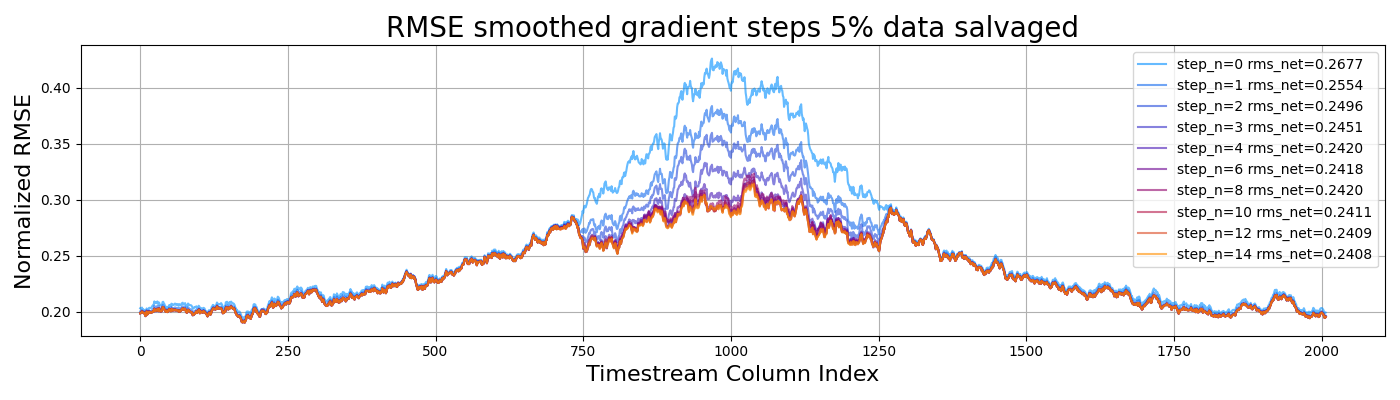
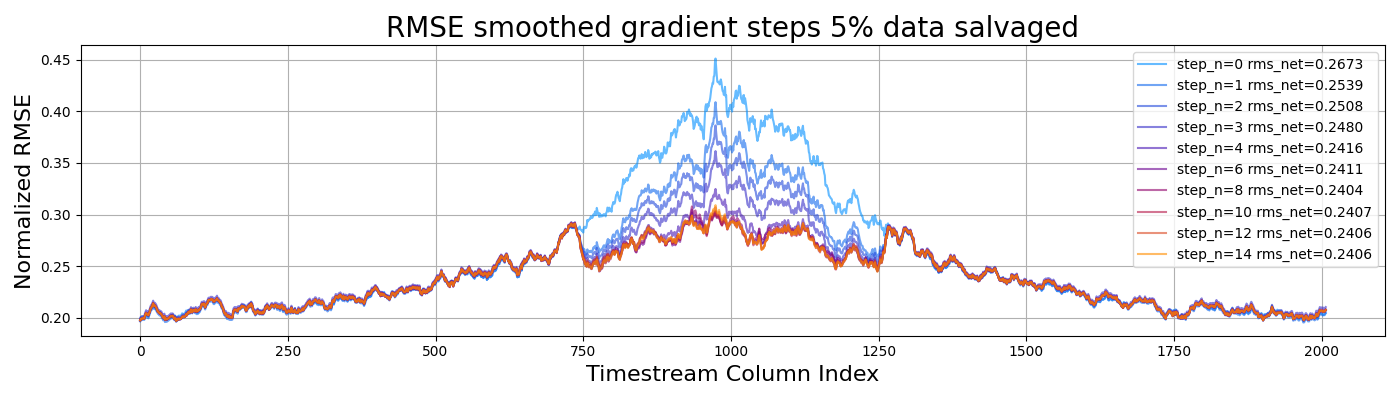
conj grad refactored

diff --git a/plots/rmse_conjugate_gradient_plots.py b/plots/rmse_conjugate_gradient_plots.py
@@ -4,7 +4,7 @@ import sys
 sys.path.append("..")
 import conjugate_gradient as cg
 from matrix_operators import A,A_inv,A_inv_wiener,A_quantize,AT
-from pfb import quantize
+from pfb import quantize_real
 import numpy as np
 from numpy.fft import rfft, irfft
 import matplotlib.pyplot as plt
@@ -18,16 +18,21 @@ import matplotlib.pyplot as plt
 colors=plt.get_cmap('Set2').colors # get list of RGB color values
 
 delta = 0.5     # Quantization interval
-#delta_in = 0.5  # Quantization interval of the input
+delta_in = 0.5  # Quantization interval of the input
 k = 80          # Determines length of simulated signal k*lblock
 lblock = 2048
 
 # Simulated input data is randomly sampled from a normal distribution. 
 x = np.random.normal(0,1,lblock*k) 
+# Quantize x with ADC
+x = quantize_real(x,delta_in)
 # `d` is what the data looks like after it's been through the PFB and it's been quantized. 
 d = A_quantize(x,delta) 
-# `N_inv` and `Q_inv` are *diagonal* matrices, so we store them as 1D-arrays 
-N_inv = np.ones(len(x)) * 6 / delta**2 
+
+# ---depricated---
+## `N_inv` and `Q_inv` are *diagonal* matrices, so we store them as 1D-arrays 
+#N_inv = np.ones(len(x)) * 6 / delta**2 
+# ---depricated---
 
 """5 percent of original data given as prior."""
 # Get the indices for all the data points we 'salvage' in data collection
@@ -47,37 +52,48 @@ B_1,u_1=cg.get_Bu(x,d,saved_idxs_1,delta)
 x0 = np.real(A_inv(d))
 x0_wiener = np.real(A_inv_wiener(d, 0.25)) # Weiner threshold 0.25
 
-# print("\n\nd={}".format(d)) # trace, they are indeed real
-# print("\n\nx_0={}".format(x0)) # complex dtype but zero imag componant
+#"""Plot RMSE of wiener"""
+## print("\n\nd={}".format(d)) # trace, they are indeed real
+## print("\n\nx_0={}".format(x0)) # complex dtype but zero imag componant
+#
+## print("\nConjugate Gradient Descent, with 3% extra data (prior is a quantized 3% of original timestream)")
+#plt.figure(figsize=(14,4))
+#
+## rms virgin pfb
+#rms_virgin = (x - x0)**2
+#rms_virgin = np.reshape(rms_virgin[5*lblock:-5*lblock],(k-10,lblock)) # bad practice to hard code k=80...? I just want to write this fast
+#rms_net_virgin = np.sqrt(np.mean(rms_virgin))
+#rms_virgin = np.sqrt(np.mean(rms_virgin,axis=0))
+#rms_virgin = cg.mav(rms_virgin,5)
+#plt.semilogy(rms_virgin[5:-5],label="rmse virgin ipfb",color=colors[0]) 
+#
+## rms wiener filtered pfb
+#rms_wiener = (x - x0_wiener)**2
+#rms_wiener = np.reshape(rms_wiener[5*lblock:-5*lblock],(k-10,lblock)) 
+#rms_net_wiener = np.sqrt(np.mean(rms_wiener))
+#rms_wiener = np.sqrt(np.mean(rms_wiener,axis=0))
+#plt.semilogy(rms_wiener[5:-5],label="rmse wiener filtered",color=colors[1]) 
+#
+#plt.grid(which="both") 
+#plt.legend()
+##plt.title("Log IPFB RMS residuals (smoothed)\nrmse virgin = {:.3f} rmse wiener = {:.3f}".format(rms_net_virgin,rms_net_wiener),fontsize=20) 
+#plt.title("IPFB Root Mean Squared residuals (smoothed)",fontsize=20)
+##plt.xlabel("Channel #",fontsize=13)
+#plt.ylabel("RMSE",fontsize=16)
+#plt.xlabel("Timestream Column Index",fontsize=16)
+#plt.tight_layout()
+#plt.savefig("img/RMSE_log_virgin_IPFB_residuals_wiener.png")
+#plt.show()
 
-# print("\nConjugate Gradient Descent, with 3% extra data (prior is a quantized 3% of original timestream)")
-plt.figure(figsize=(14,4))
+def plot_rms(x_out,label):
+    rms = (x - x_out)**2
+    rms = np.reshape(rms[5*lblock:-5*lblock], (k-10, lblock))
+    rms_net = np.sqrt(np.mean(rms)) # net (or total) rms
+    rms = np.sqrt(np.mean(rms, axis=0))
+    rms_smoothed = cg.mav(rms, 20)[20:-20] # Chop off spoiled values
+    plt.plot(rms_smoothed, label=f"{label}")
+    return 
 
-# rms virgin pfb
-rms_virgin = (x - x0)**2
-rms_virgin = np.reshape(rms_virgin[5*lblock:-5*lblock],(k-10,lblock)) # bad practice to hard code k=80...? I just want to write this fast
-rms_net_virgin = np.sqrt(np.mean(rms_virgin))
-rms_virgin = np.sqrt(np.mean(rms_virgin,axis=0))
-rms_virgin = cg.mav(rms_virgin,5)
-plt.semilogy(rms_virgin[5:-5],label="rmse virgin ipfb",color=colors[0]) 
-
-# rms wiener filtered pfb
-rms_wiener = (x - x0_wiener)**2
-rms_wiener = np.reshape(rms_wiener[5*lblock:-5*lblock],(k-10,lblock)) 
-rms_net_wiener = np.sqrt(np.mean(rms_wiener))
-rms_wiener = np.sqrt(np.mean(rms_wiener,axis=0))
-plt.semilogy(rms_wiener[5:-5],label="rmse wiener filtered",color=colors[1]) 
-
-plt.grid(which="both") 
-plt.legend()
-#plt.title("Log IPFB RMS residuals (smoothed)\nrmse virgin = {:.3f} rmse wiener = {:.3f}".format(rms_net_virgin,rms_net_wiener),fontsize=20) 
-plt.title("IPFB Root Mean Squared residuals (smoothed)",fontsize=20)
-#plt.xlabel("Channel #",fontsize=13)
-plt.ylabel("RMSE",fontsize=16)
-plt.xlabel("Timestream Column Index",fontsize=16)
-plt.tight_layout()
-plt.savefig("img/RMSE_log_virgin_IPFB_residuals_wiener.png")
-plt.show()
 
 # RMS conj gradient descent
 x_out_5 = cg.conjugate_gradient_descent(B_5, u_5, x0=x0_wiener, rmin=0.0, 
@@ -85,19 +101,47 @@ x_out_5 = cg.conjugate_gradient_descent(B_5, u_5, x0=x0_wiener, rmin=0.0,
         title="RMSE smoothed gradient steps 5% data salvaged",
         saveas="img/RMSE_conjugate_gradient_descent_5percent.png")
 
-# RMS conj gradient descent
-x_out_3 = cg.conjugate_gradient_descent(B_3, u_3, x0=x0_wiener, rmin=0.0, 
-        max_iter=10, k=k, lblock=lblock, verbose=True, x_true=x, 
-        title="RMSE smoothed gradient steps 3% data salvaged",
-        saveas="img/RMSE_conjugate_gradient_descent_3percent.png")
-# RMS conj gradient descent
-x_out_1 = cg.conjugate_gradient_descent(B_1, u_1, x0=x0_wiener, rmin=0.0, 
-        max_iter=5, k=k, lblock=lblock, verbose=True, x_true=x, 
-        title="RMSE smoothed gradient steps 1% data salvaged",
-        saveas="img/RMSE_conjugate_gradient_descent_1percent.png")        
+# quantize once, look at RMSE
+x_out_5_q1 = quantize_real(x_out_5,delta_in)
+x_out_5_v1 = cg.conjugate_gradient_descent(B_5, u_5, x0=x_out_5_q1, rmin=0.0,
+        max_iter=2, k=k, lblock=lblock, verbose=True, x_true=x,
+        title="RMSE smoothed gradient steps 5% data salvaged")
+x_out_5_q2 = quantize_real(x_out_5,delta_in)
+x_out_5_v2 = cg.conjugate_gradient_descent(B_5, u_5, x0=x_out_5_q2, rmin=0.0,
+        max_iter=2, k=k, lblock=lblock, verbose=True, x_true=x,
+        title="RMSE smoothed gradient steps 5% data salvaged")
+x_out_5_q3 = quantize_real(x_out_5,delta_in)
+x_out_5_v3 = cg.conjugate_gradient_descent(B_5, u_5, x0=x_out_5_q3, rmin=0.0,
+        max_iter=2, k=k, lblock=lblock, verbose=True, x_true=x,
+        title="RMSE smoothed gradient steps 5% data salvaged")
+
+plot_rms(x_out_5,"descent 0")
+plot_rms(x_out_5_q1,"quantized 1")
+plot_rms(x_out_5_v1,"descent 1")
+plot_rms(x_out_5_q2,"quantized 2")
+plot_rms(x_out_5_v2,"descent 2")
+plot_rms(x_out_5_q3,"quantized 3")
+plot_rms(x_out_5_v3,"descent 3")
+plt.legend()
+plt.title("RMS descent re-quantize")
+plt.tight_layout()
+plt.savefig("img/double_descent_rmse.png")
+plt.show()
+
+
+
+
+## RMS conj gradient descent
+#x_out_3 = cg.conjugate_gradient_descent(B_3, u_3, x0=x0_wiener, rmin=0.0, 
+#        max_iter=10, k=k, lblock=lblock, verbose=True, x_true=x, 
+#        title="RMSE smoothed gradient steps 3% data salvaged",
+#        saveas="img/RMSE_conjugate_gradient_descent_3percent.png")
+## RMS conj gradient descent
+#x_out_1 = cg.conjugate_gradient_descent(B_1, u_1, x0=x0_wiener, rmin=0.0, 
+#        max_iter=5, k=k, lblock=lblock, verbose=True, x_true=x, 
+#        title="RMSE smoothed gradient steps 1% data salvaged",
+#        saveas="img/RMSE_conjugate_gradient_descent_1percent.png")        
     
-# 
-#x_out_5_q1 = quantize(x_out_5,delta_in)
 
 
 

diff --git a/pfb.py b/pfb.py
@@ -79,6 +79,11 @@ def quantize(signal,delta=0.1):
     """Quantizes signal in intervals of delta in both real and imaginary parts"""
     return quantize_real(np.real(signal),delta) + 1.0j*quantize_real(np.imag(signal),delta) 
 
+def quantize_8_bit_real(signal, delta=0.5):
+    """8-bit Quantizes a real signal in 8 bits"""
+    return np.clip(quantize_real(signal, delta), 
+            -128*delta + delta/2, 128*delta - delta/2)
+
 def quantize_8_bit(signal, delta=0.5):
     """8-bit Quantizes the signal in intervals of delta in both real 
     and imaginary parts, 4 bits (=15 intervals) for each componant, 
@@ -94,11 +99,22 @@ def quantize_8_bit(signal, delta=0.5):
                                   8*delta  - delta/2)
     return real_quantized + 1.0j*imag_quantized 
 
-def quantize_12_bit_real(signal, delta=0.2):
+def quantize_12_bit_real(signal, delta=0.3):
     """Quantizes real signal into twelve bits"""
     return np.clip(quantize_real(signal, delta),
                             -2**11*delta + delta/2,
                              2**11*delta - delta/2)
+
+def quantize_8_bit_spec_scaled_per_channel(spec, normalized_delta=0.2):
+    """Figures out optimal quantization scales in form of a 'deltas' 
+    array, then quantizes the spectrum in each channel
+
+    Shape of spec is [ ? , number of channels]"""
+    print(f"DEBUG: spec.shape should be (?, number of channels) {spec.shape}") 
+    stds = spec.std(axis=0)
+    spec_norm = spec/stds # normalized spectrum
+    spec_norm = quantize_8_bit(spec_norm, delta=normalized_delta) # quantize it
+    return spec_norm * stds, stds
     
 
 # def quantize_real(real_signal,delta=0.1):

diff --git a/matrix_operators.py b/matrix_operators.py
@@ -9,6 +9,15 @@ from numpy.fft import rfft,irfft
 
 
 # TODO refactor PFB matrix operators and conj-grad code so that is just does the forward pfb... 
+
+# To build, I'm calling these C instead of A so that old code can coexist, backwards compatible (for now)
+def C(x):
+    """Applies forward pfb, flatten"""
+    return pfb.forward_pfb(x).flatten()
+
+#def C_inv
+
+# ---- old paradigm
 def A(x):
     """Applies PFB, irfft's that, flatten."""
     # Forward PFB the Signal
@@ -60,8 +69,9 @@ def R(x,lblock=2048):
     """Re-ordering matrix (involution). Useful for Transposes"""
     lx = len(x)
     assert lx/lblock == lx//lblock, "Len x must divide lblock"
-    k = lx // lblock
+    k = lx // lblock # k is number of frames
     out = np.zeros(lx)
+    # For each frame, 
     for i in range(k):
         out[i*lblock:(i+1)*lblock] = x[(k-i-1)*lblock:(k-i)*lblock]
     return out

diff --git a/data/serialize_inverse_signals.py b/data/serialize_inverse_signals.py
@@ -16,7 +16,7 @@ signal = (signal - np.mean(signal)) / np.std(signal)
 # trunkate signal (temporary)
 #signal = signal[:3*80*2048]
 
-cg.reconstruct_long_signal(signal,delta=0.3)
+cg.reconstruct_long_signal(signal,delta=0.09,verbose=False)
 
 
 

diff --git a/plots/colors.py b/plots/colors.py
@@ -1,0 +1,5 @@
+import matplotlib.pyplot as plt
+colors=plt.get_cmap('Set2').colors # get list of RGB color values
+for i in range(4):
+    print(f"#{i} ",colors[i])
+

diff --git a/README.md b/README.md
@@ -34,6 +34,20 @@ $$y_n = \frac{1}{\sqrt N} \sum_{k=0}^N \exp(-2\pi i nk)x_k$$
 
 In `conjugate_gradient.py`, we have code that lets us optimize the inverse PFB based on some added information. 
 
+We perform conjugate gradient descent on a matrix equation of the form
+
+$$B x = u$$
+
+The equation we are minimizing, the chi-squared equation, takes the form
+
+$$\chi^2 = (d - Ax)^T N^{-1} (d - Ax)$$
+
+Taking a derivative wrt to the model ($x$) and setting that to zero we get
+
+$$\frac{d\chi^2}{dx} = -2A^TN^{-1}(d - Ax) = 0 \Rightarrow A^TN^{-1}(d - Ax) = 0$$
+
+
+
 ## Plots
 
 

diff --git a/data/README.md b/data/README.md
@@ -1,3 +1,9 @@
-`20230413_165805_signal.npy` uses delta=0.5 quantization
+`20230413_212641_signal.npy` uses delta=0.3 quantization
+
+`20230413_220047_signal.npy` uses delta=0.5 quantization
+
+`20230413_221701_signal.npy` uses delta=0.3 quantization
+
+
 
 
